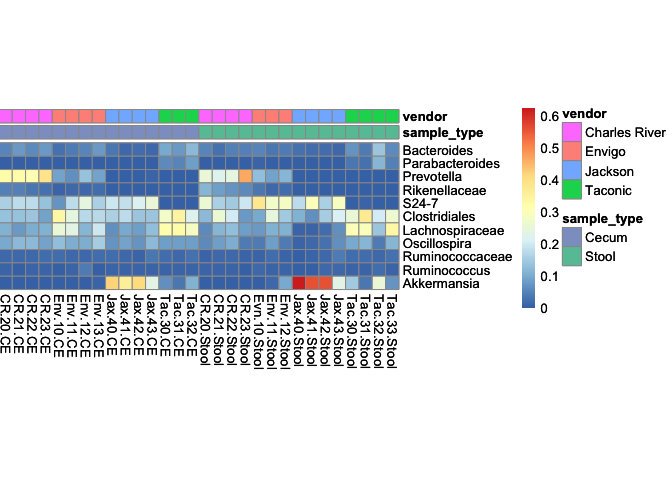
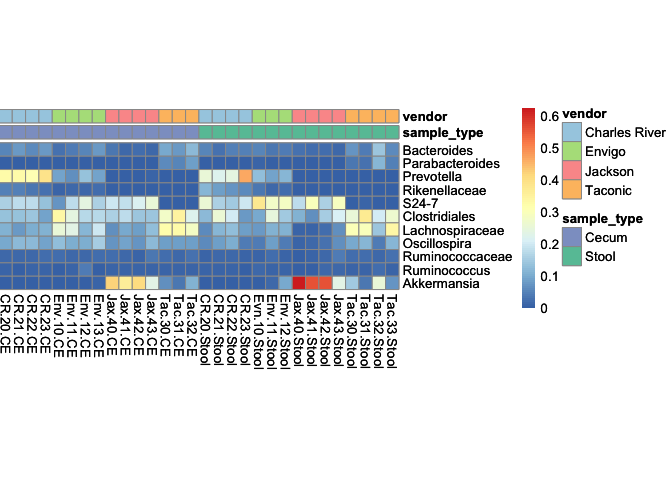
Tweak function discussion, add vendor colors

Changed region(s): [[0.0, 0.2188, 0.5938, 0.2812], [0.8125, 0.25, 0.875, 0.4375]]

diff --git a/README.md b/README.md
@@ -21,9 +21,9 @@ The pheatbuilder package comes with a built-in dataset, `vendor_props`.
 This data matrix contains bacterial taxon proportions in cecal and fecal
 samples in mice from four different vendors.
 
-Heatmaps start by passing a matrix or data frame to `pheat()`. By
-default, the cells of the heatmap are 10pt square (matching the default
-font size), and the rows/columns are not clustered.
+Heatmaps start by passing a matrix or data frame to the `pheat`
+function. By default, the cells of the heatmap are 10pt square (matching
+the default font size), and the rows/columns are not clustered.
 
 ``` r
 pheat(vendor_props)
@@ -71,7 +71,7 @@ vendor_props %>%
 
 ![](tools/readme/unnamed-chunk-7-1.png)<!-- -->
 
-Heatmaps can be saved with a call to `pheat_save()`. If the height and
+Heatmaps can be saved with a call to `pheat_save`. If the height and
 width are not set, the document is automatically sized to fit the
 heatmap.
 
@@ -83,9 +83,9 @@ vendor_props %>%
 
 The function `pheat_save` returns the heatmap invisibly. If you still
 want to see the heatmap on screen after it is saved to a file, you can
-add `print()` to the chain of functions.
+add `print` to the chain of functions at the end.
 
-## Additional functions: `factor_gaps` and `factor_palette`
+## Convenience functions for gaps and color palettes
 
 Sometimes it’s nice to have gaps between rows or columns of the heatmap.
 The gap locations are typically specified with row or column numbers,
@@ -104,20 +104,30 @@ vendor_props %>%
 A common trouble spot with annotated heatmaps is setting the color
 palettes for various annotations. The function `factor_palette` allows
 the user to creat a named vector of colors, and to pull specific colors
-to the front if needed. Here, we take the third color from the “Set 2”
-palette and use it as the first color in our palette for sample types.
-The remaining colors in the “Set 2” palette are used as needed for the
-additional sample types.
+to the front if needed.
+
+Here, we take the third color from the “Set 2” palette and use it as the
+first color in our palette for sample types. The remaining colors in the
+“Set 2” palette are used as needed for the additional sample types.
+
+For vendors, we use only the odd colors from the “Paired” palette, to
+keep the color scheme light.
 
 ``` r
 sample_type_colors <- factor_palette(
   vendor_samples$sample_type, 
   palette.colors(palette = "Set 2"), 
   3)
+vendor_colors <- factor_palette(
+  vendor_samples$vendor,
+  palette.colors(palette = "Paired"),
+  1, 3, 5, 7)
 vendor_props %>%
   pheat() %>%
   pheat_annotate_cols(vendor_samples) %>%
-  pheat_annotation_color(sample_type = sample_type_colors)
+  pheat_annotation_color(
+    sample_type = sample_type_colors,
+    vendor = vendor_colors)
 ```
 
 ![](tools/readme/unnamed-chunk-10-1.png)<!-- -->
